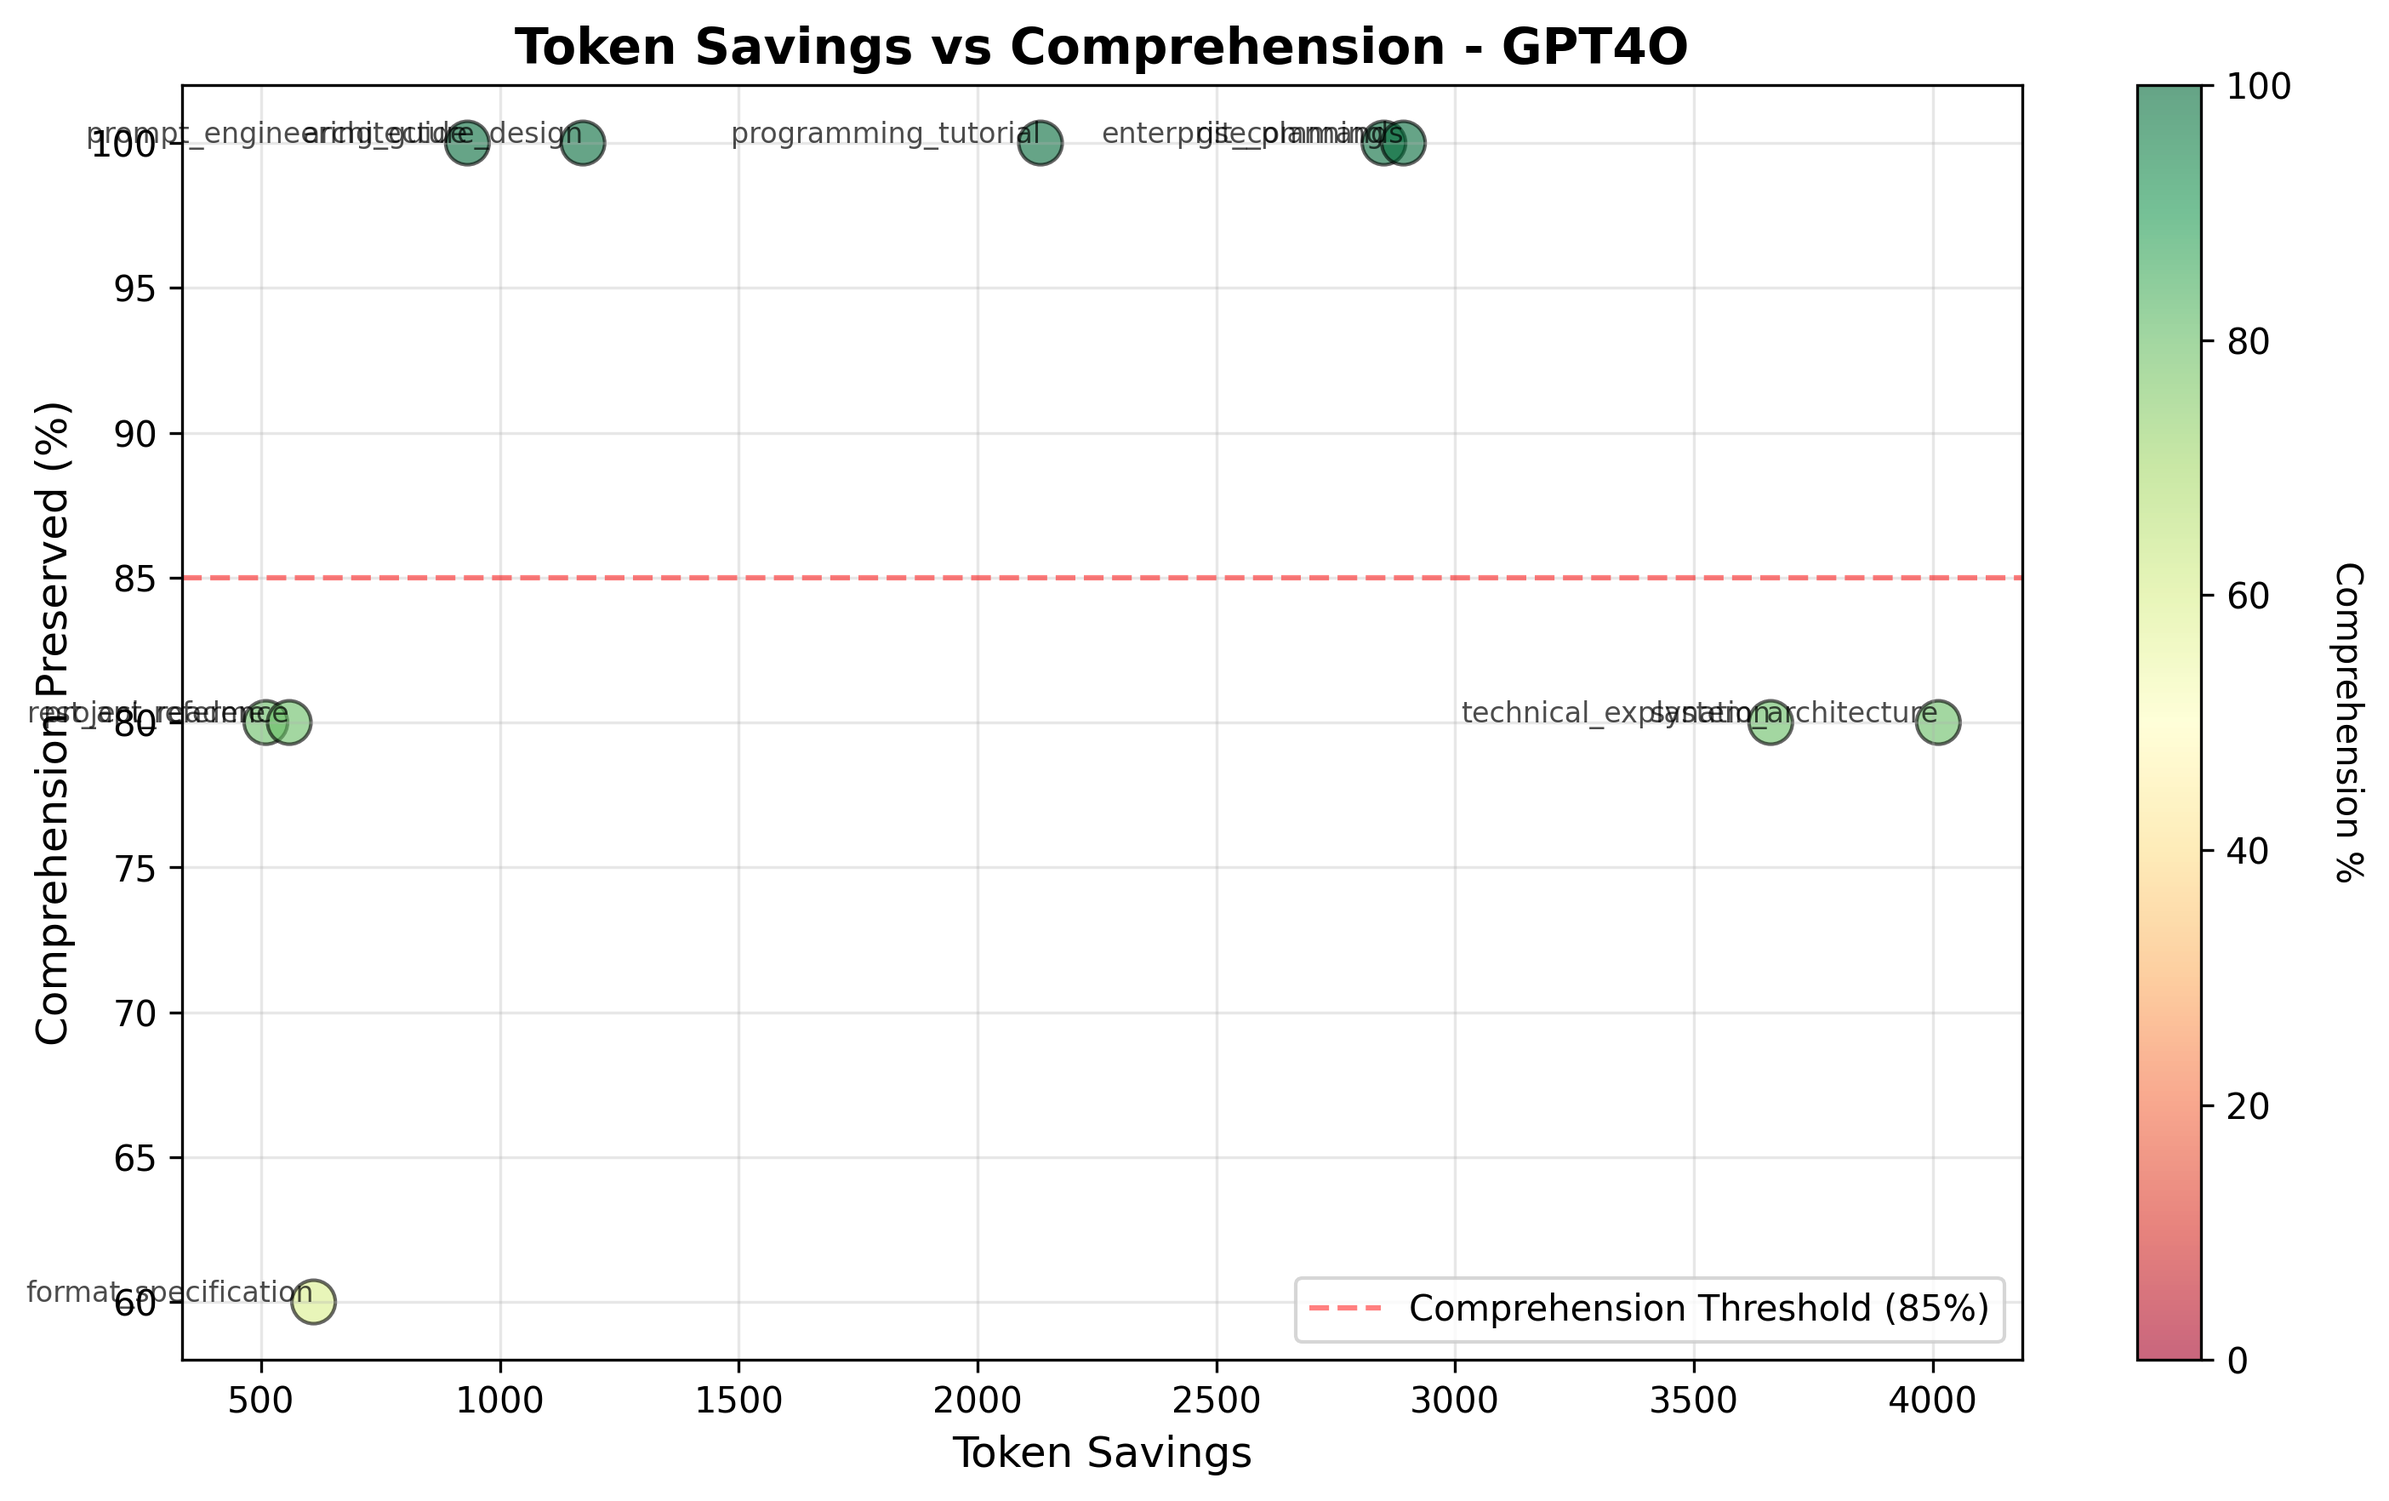
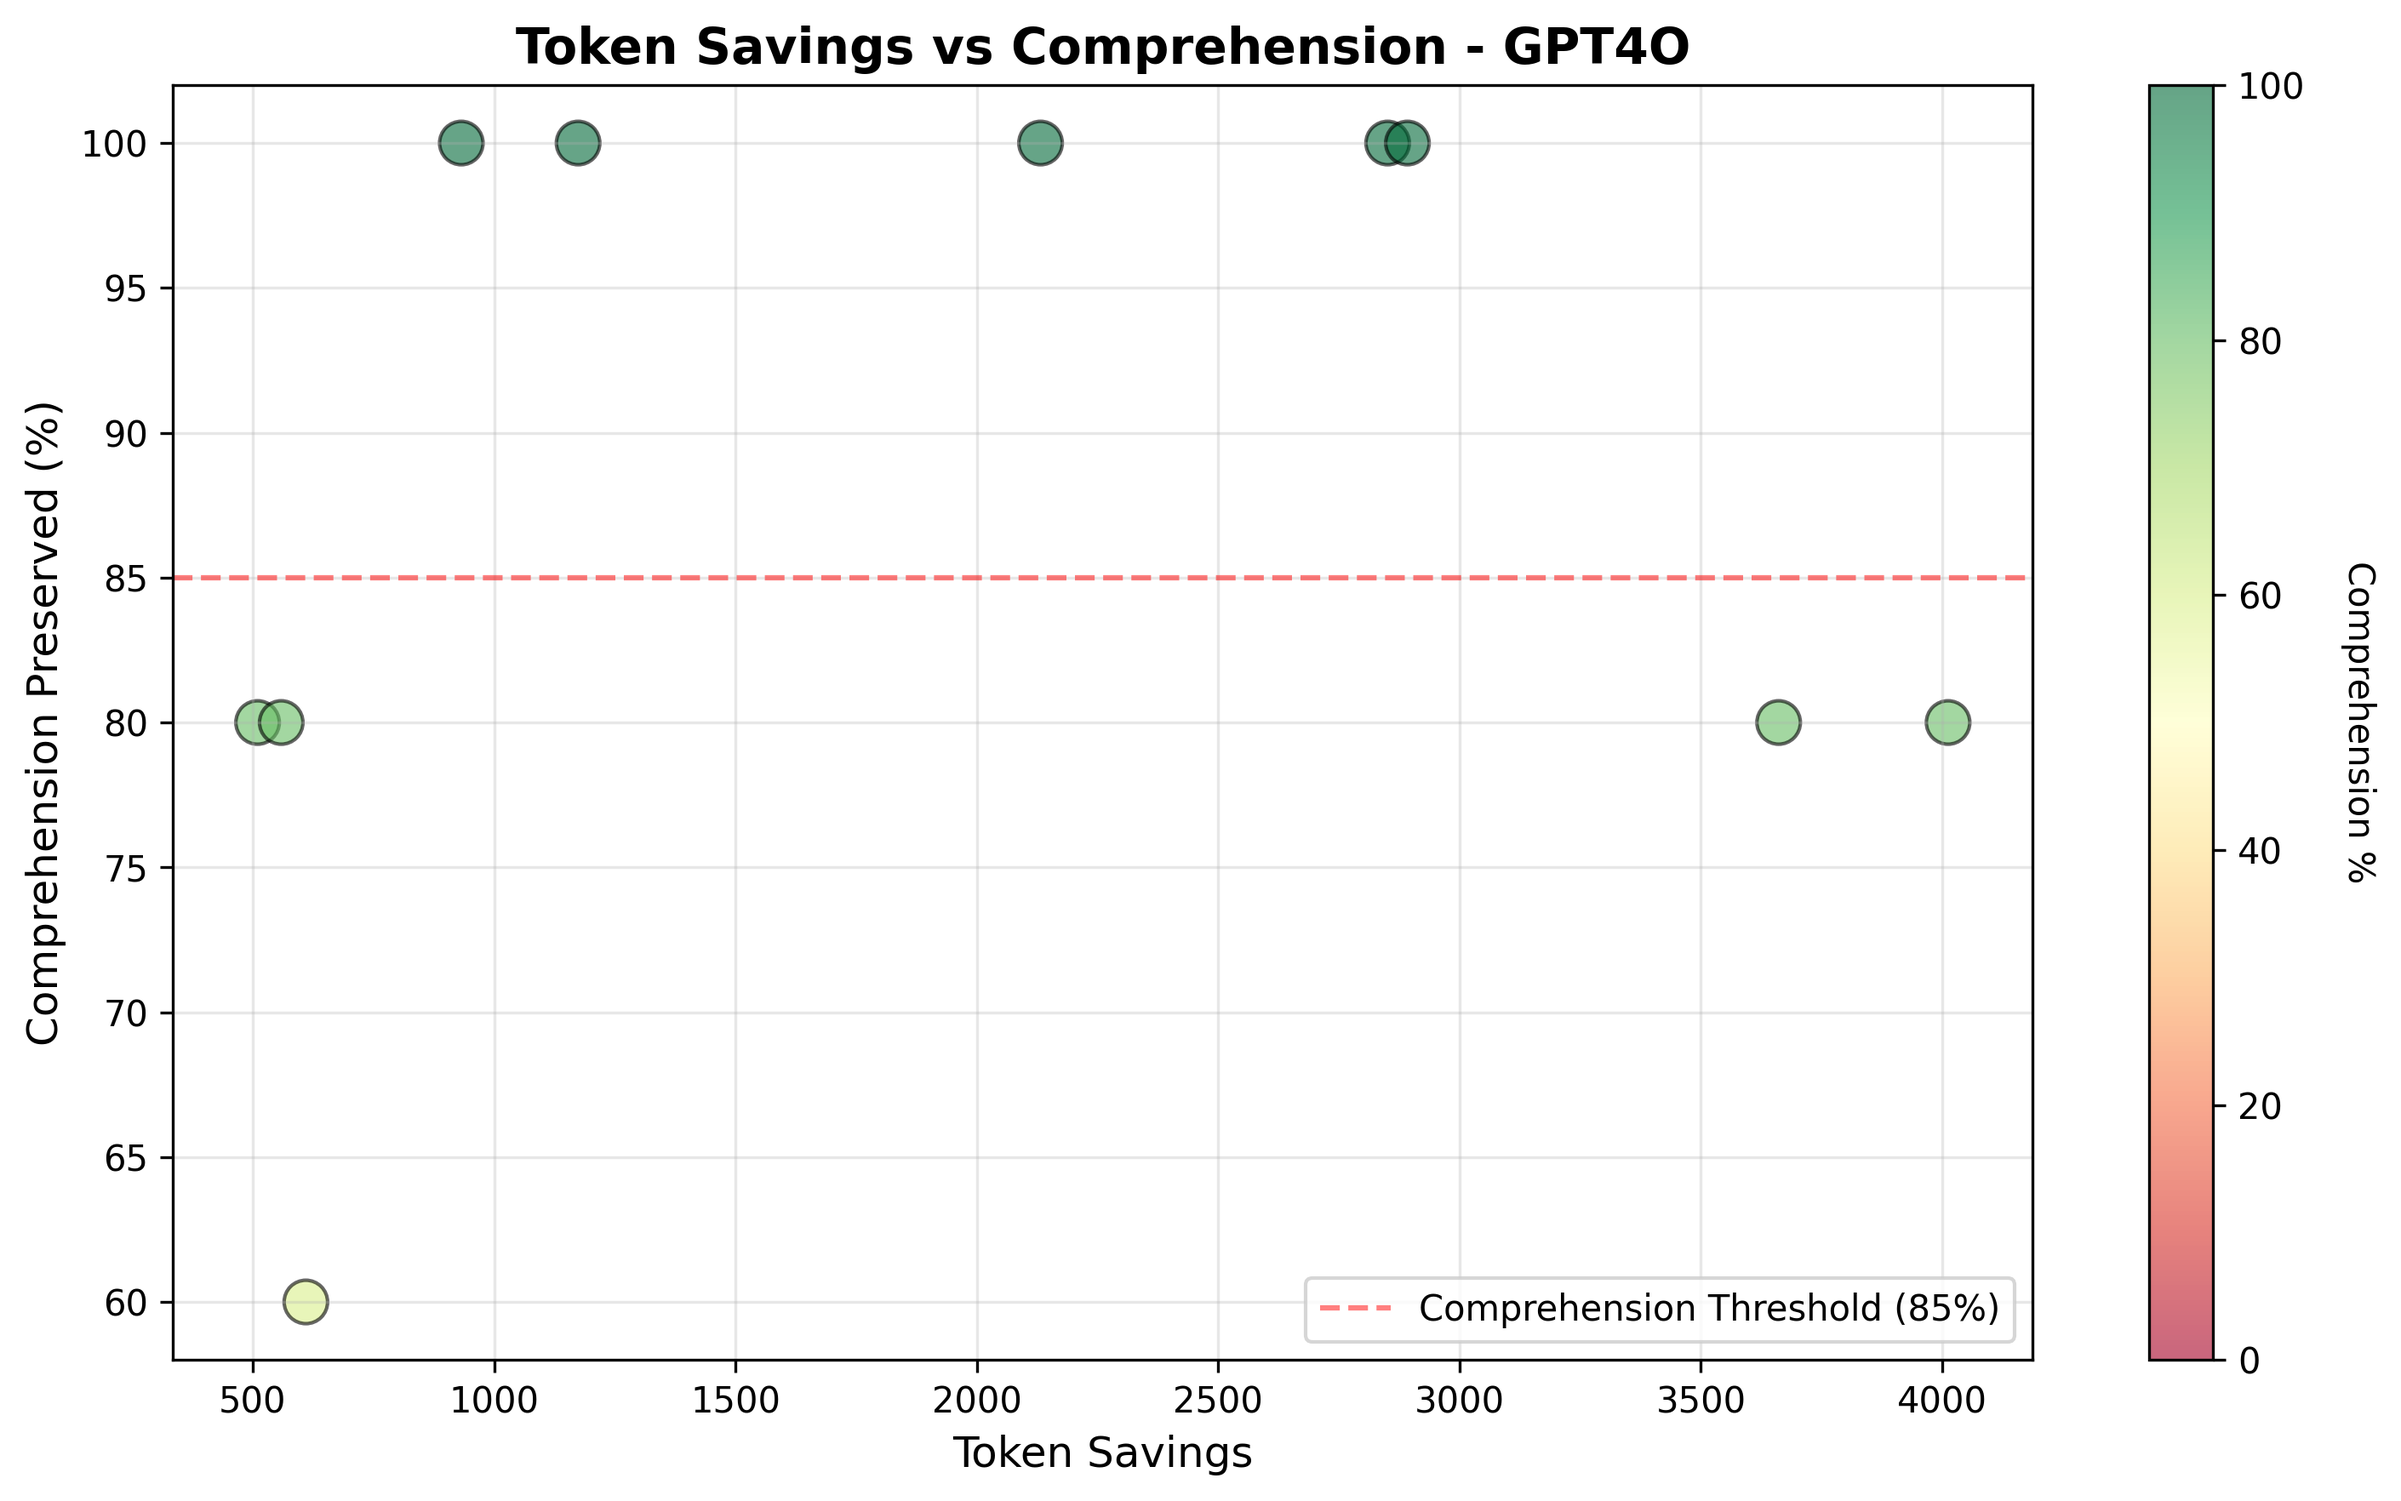
updated results

diff --git a/scripts/visualize_llm.py b/scripts/visualize_llm.py
@@ -47,13 +47,19 @@ class LLMBenchmarkVisualizer:
         # 2. Similarity scores distribution
         self.plot_similarity_distribution(output_dir / f'run_{self.run_number}_similarity_distribution.png')
         
-        # 3. Token savings vs comprehension
+        # 3. Compression vs comprehension tradeoff (like token benchmark)
+        self.plot_compression_tradeoff(output_dir / f'run_{self.run_number}_compression_tradeoff.png')
+        
+        # 4. Token savings vs comprehension
         self.plot_token_savings_tradeoff(output_dir / f'run_{self.run_number}_token_savings_tradeoff.png')
         
-        # 4. Question type analysis
+        # 5. Question type analysis
         self.plot_question_type_analysis(output_dir / f'run_{self.run_number}_question_type_analysis.png')
         
-        # 5. Generate summary JSON
+        # 6. Similarity vs comprehension
+        self.plot_similarity_comprehension(output_dir / f'run_{self.run_number}_similarity_comprehension.png')
+        
+        # 7. Generate summary JSON
         self.generate_summary_json(output_dir / f'run_{self.run_number}_summary.json')
         
         print(f"All visualizations saved to {output_dir}")
@@ -141,6 +147,58 @@ class LLMBenchmarkVisualizer:
         
         print(f"  ✓ Similarity distribution chart saved")
     
+    def plot_compression_tradeoff(self, output_path: Path) -> None:
+        """Plot compression ratio vs comprehension preservation (like token benchmark similarity tradeoff)."""
+        files = []
+        comprehension = []
+        compression_pct = []
+        avg_similarity = []
+        
+        for item in self.data:
+            files.append(item['file'].replace('.md', '').replace('_', ' ').title())
+            comp_preserved = item.get('comprehension_preserved', 0) * 100
+            comprehension.append(comp_preserved)
+            
+            # Calculate compression percentage from ratio (1 - ratio) * 100
+            ratio = item.get('compression_ratio', 1.0)
+            compression_pct.append((1 - ratio) * 100)
+            
+            # Get average similarity for this file
+            avg_sim = item.get('avg_similarity', 0)
+            avg_similarity.append(avg_sim)
+        
+        fig, ax = plt.subplots(figsize=(12, 7))
+        
+        # Create scatter plot with size based on similarity
+        scatter = ax.scatter(compression_pct, comprehension, 
+                           s=[sim * 300 for sim in avg_similarity],  # Scale by similarity
+                           alpha=0.6, c=comprehension, cmap='RdYlGn',
+                           edgecolors='black', linewidth=1.5,
+                           vmin=0, vmax=100)
+        
+        # Reference lines
+        ax.axhline(y=85, color='red', linestyle='--', alpha=0.5, 
+                  label='Comprehension Threshold (85%)')
+        ax.axvline(x=np.mean(compression_pct), color='blue', linestyle=':', 
+                  alpha=0.5, label=f'Avg Compression ({np.mean(compression_pct):.1f}%)')
+        
+        ax.set_xlabel('Compression (%)', fontsize=12)
+        ax.set_ylabel('Comprehension Preserved (%)', fontsize=12)
+        ax.set_title(f'Compression vs Comprehension Trade-off - {self.model_name.upper()}\\n(bubble size = avg similarity)', 
+                    fontsize=14, fontweight='bold')
+        ax.legend(loc='lower left')
+        ax.grid(alpha=0.3)
+        
+        # Add colorbar
+        cbar = plt.colorbar(scatter, ax=ax)
+        cbar.set_label('Comprehension %', rotation=270, labelpad=20)
+        
+        plt.tight_layout()
+        plt.savefig(output_path, dpi=300, bbox_inches='tight')
+        plt.close()
+        
+        print(f"  ✓ Compression tradeoff chart saved")
+    
     def plot_token_savings_tradeoff(self, output_path: Path) -> None:
         """Plot token savings vs comprehension preservation."""
         files = []
@@ -157,11 +215,6 @@ class LLMBenchmarkVisualizer:
         scatter = ax.scatter(token_savings, comprehension, s=150, alpha=0.6, 
                            c=comprehension, cmap='RdYlGn', edgecolors='black',
                            vmin=0, vmax=100)
-        
-        # Add file labels
-        for i, file in enumerate(files):
-            ax.annotate(file, (token_savings[i], comprehension[i]),
-                       fontsize=8, alpha=0.7, ha='right')
         
         # Threshold line
         ax.axhline(y=85, color='red', linestyle='--', alpha=0.5, 
@@ -243,6 +296,52 @@ class LLMBenchmarkVisualizer:
         plt.close()
         
         print(f"  ✓ Question type analysis chart saved")
+    
+    def plot_similarity_comprehension(self, output_path: Path) -> None:
+        """Plot average answer similarity vs comprehension preservation."""
+        files = []
+        comprehension = []
+        avg_similarity = []
+        
+        for item in self.data:
+            files.append(item['file'].replace('.md', '').replace('_', ' ').title())
+            comprehension.append(item.get('comprehension_preserved', 0) * 100)
+            avg_similarity.append(item.get('avg_similarity', 0))
+        
+        fig, ax = plt.subplots(figsize=(10, 7))
+        
+        # Scatter plot
+        scatter = ax.scatter(avg_similarity, comprehension, s=150, alpha=0.6,
+                           c=comprehension, cmap='RdYlGn', edgecolors='black',
+                           vmin=0, vmax=100)
+        
+        # Reference lines
+        ax.axhline(y=85, color='red', linestyle='--', alpha=0.5, 
+                  label='Comprehension Threshold (85%)')
+        ax.axvline(x=0.85, color='orange', linestyle='--', alpha=0.5,
+                  label='Similarity Threshold (0.85)')
+        
+        # Ideal region
+        ax.axvspan(0.85, 1.0, ymin=0.85, alpha=0.1, color='green', label='Ideal Region')
+        
+        ax.set_xlabel('Average Answer Similarity', fontsize=12)
+        ax.set_ylabel('Comprehension Preserved (%)', fontsize=12)
+        ax.set_title(f'Answer Similarity vs Comprehension - {self.model_name.upper()}', 
+                    fontsize=14, fontweight='bold')
+        ax.legend(loc='lower right')
+        ax.grid(alpha=0.3)
+        ax.set_xlim(0.5, 1.0)
+        ax.set_ylim(0, 105)
+        
+        # Add colorbar
+        cbar = plt.colorbar(scatter, ax=ax)
+        cbar.set_label('Comprehension %', rotation=270, labelpad=20)
+        
+        plt.tight_layout()
+        plt.savefig(output_path, dpi=300, bbox_inches='tight')
+        plt.close()
+        
+        print(f"  ✓ Similarity vs comprehension chart saved")
     
     def generate_summary_json(self, output_path: Path) -> None:
         """Generate summary statistics as JSON."""

diff --git a/README.md b/README.md
@@ -1,6 +1,51 @@
 # MiniMark - Markdown Minifier for LLM Contexts
 
-MiniMark is a Python-based markdown minification tool designed to optimize documents for LLM context windows by reducing token count while preserving semantic meaning. It is 
+MiniMark is a Python-based markdown minification tool designed to optimize documents for LLM context windows by reducing token count while preserving semantic meaning.
+
+## Latest Results
+
+### Token Reduction Benchmark (Run 009)
+
+**Recommended Strategy: `syntax_stopwords` (28.4% reduction, 89.6% similarity)**
+
+| Strategy                           | Token Reduction  | Semantic Similarity |
+|----------                          |----------------  |---------------------|
+| baseline                           | 0.0%             | N/A                 |
+| syntax_only                        | 12.7%            | 93.5%               |
+| **syntax_stopwords**               | **28.4%**        | **89.6%**           |
+| syntax_stopwords_simplify          | 29.5%            | 89.3%               |
+| synonyms_syntax_stopwords_simplify | 19.6%            | 83.2%               |
+
+![Similarity vs Token Reduction Trade-off](results/visualizations/token_reduction/run_009_similarity_tradeoff.png)
+
+*The chart shows that `syntax_stopwords` and `syntax_stopwords_simplify` offer the best balance between compression and semantic preservation.*
+
+### LLM Comprehension Benchmark (Run 004 - GPT-4o)
+
+**Strategy Used: `syntax + stopwords` | Overall: 88.0% comprehension**
+
+| Status   | Document                     | Comprehension  | Similarity |
+|--------  |----------                    |--------------  |------------|
+| ✓        | enterprise_planning.md       | 100.0%         | 0.920 |
+| ✓        | programming_tutorial.md      | 100.0%         | 0.950 |
+| ✓        | prompt_engineering_guide.md  | 100.0%         | 0.940 |
+| ✓        | architecture_design.md       | 100.0%         | 0.890 |
+| ✓        | git_commands.md              | 100.0%         | 0.950 |
+| ✗        | project_readme.md            | 80.0%          | 0.860 |
+| ✗        | technical_explanation.md     | 80.0%          | 0.850 |
+| ✗        | rest_api_reference.md        | 80.0%          | 0.906 |
+| ✗        | format_specification.md      | 60.0%          | 0.850 |
+| ✗        | system_architecture.md       | 80.0%          | 0.890 |
+
+![Similarity Distribution](results/visualizations/llm_comprehension/run_004_similarity_distribution.png)
+
+*The histogram shows that most answer similarities cluster above 0.85, indicating strong comprehension preservation.*
+
+**Key Findings:**
+- `syntax + stopwords` achieves 88% comprehension (above 85% threshold)
+- `syntax + stopwords + simplify` drops to 82% comprehension (fails threshold)
+- Adding `simplify` strategy reduces comprehension by 6 percentage points
+- **Recommended for LLM contexts: `syntax + stopwords` only** 
 
 ## Features
 
